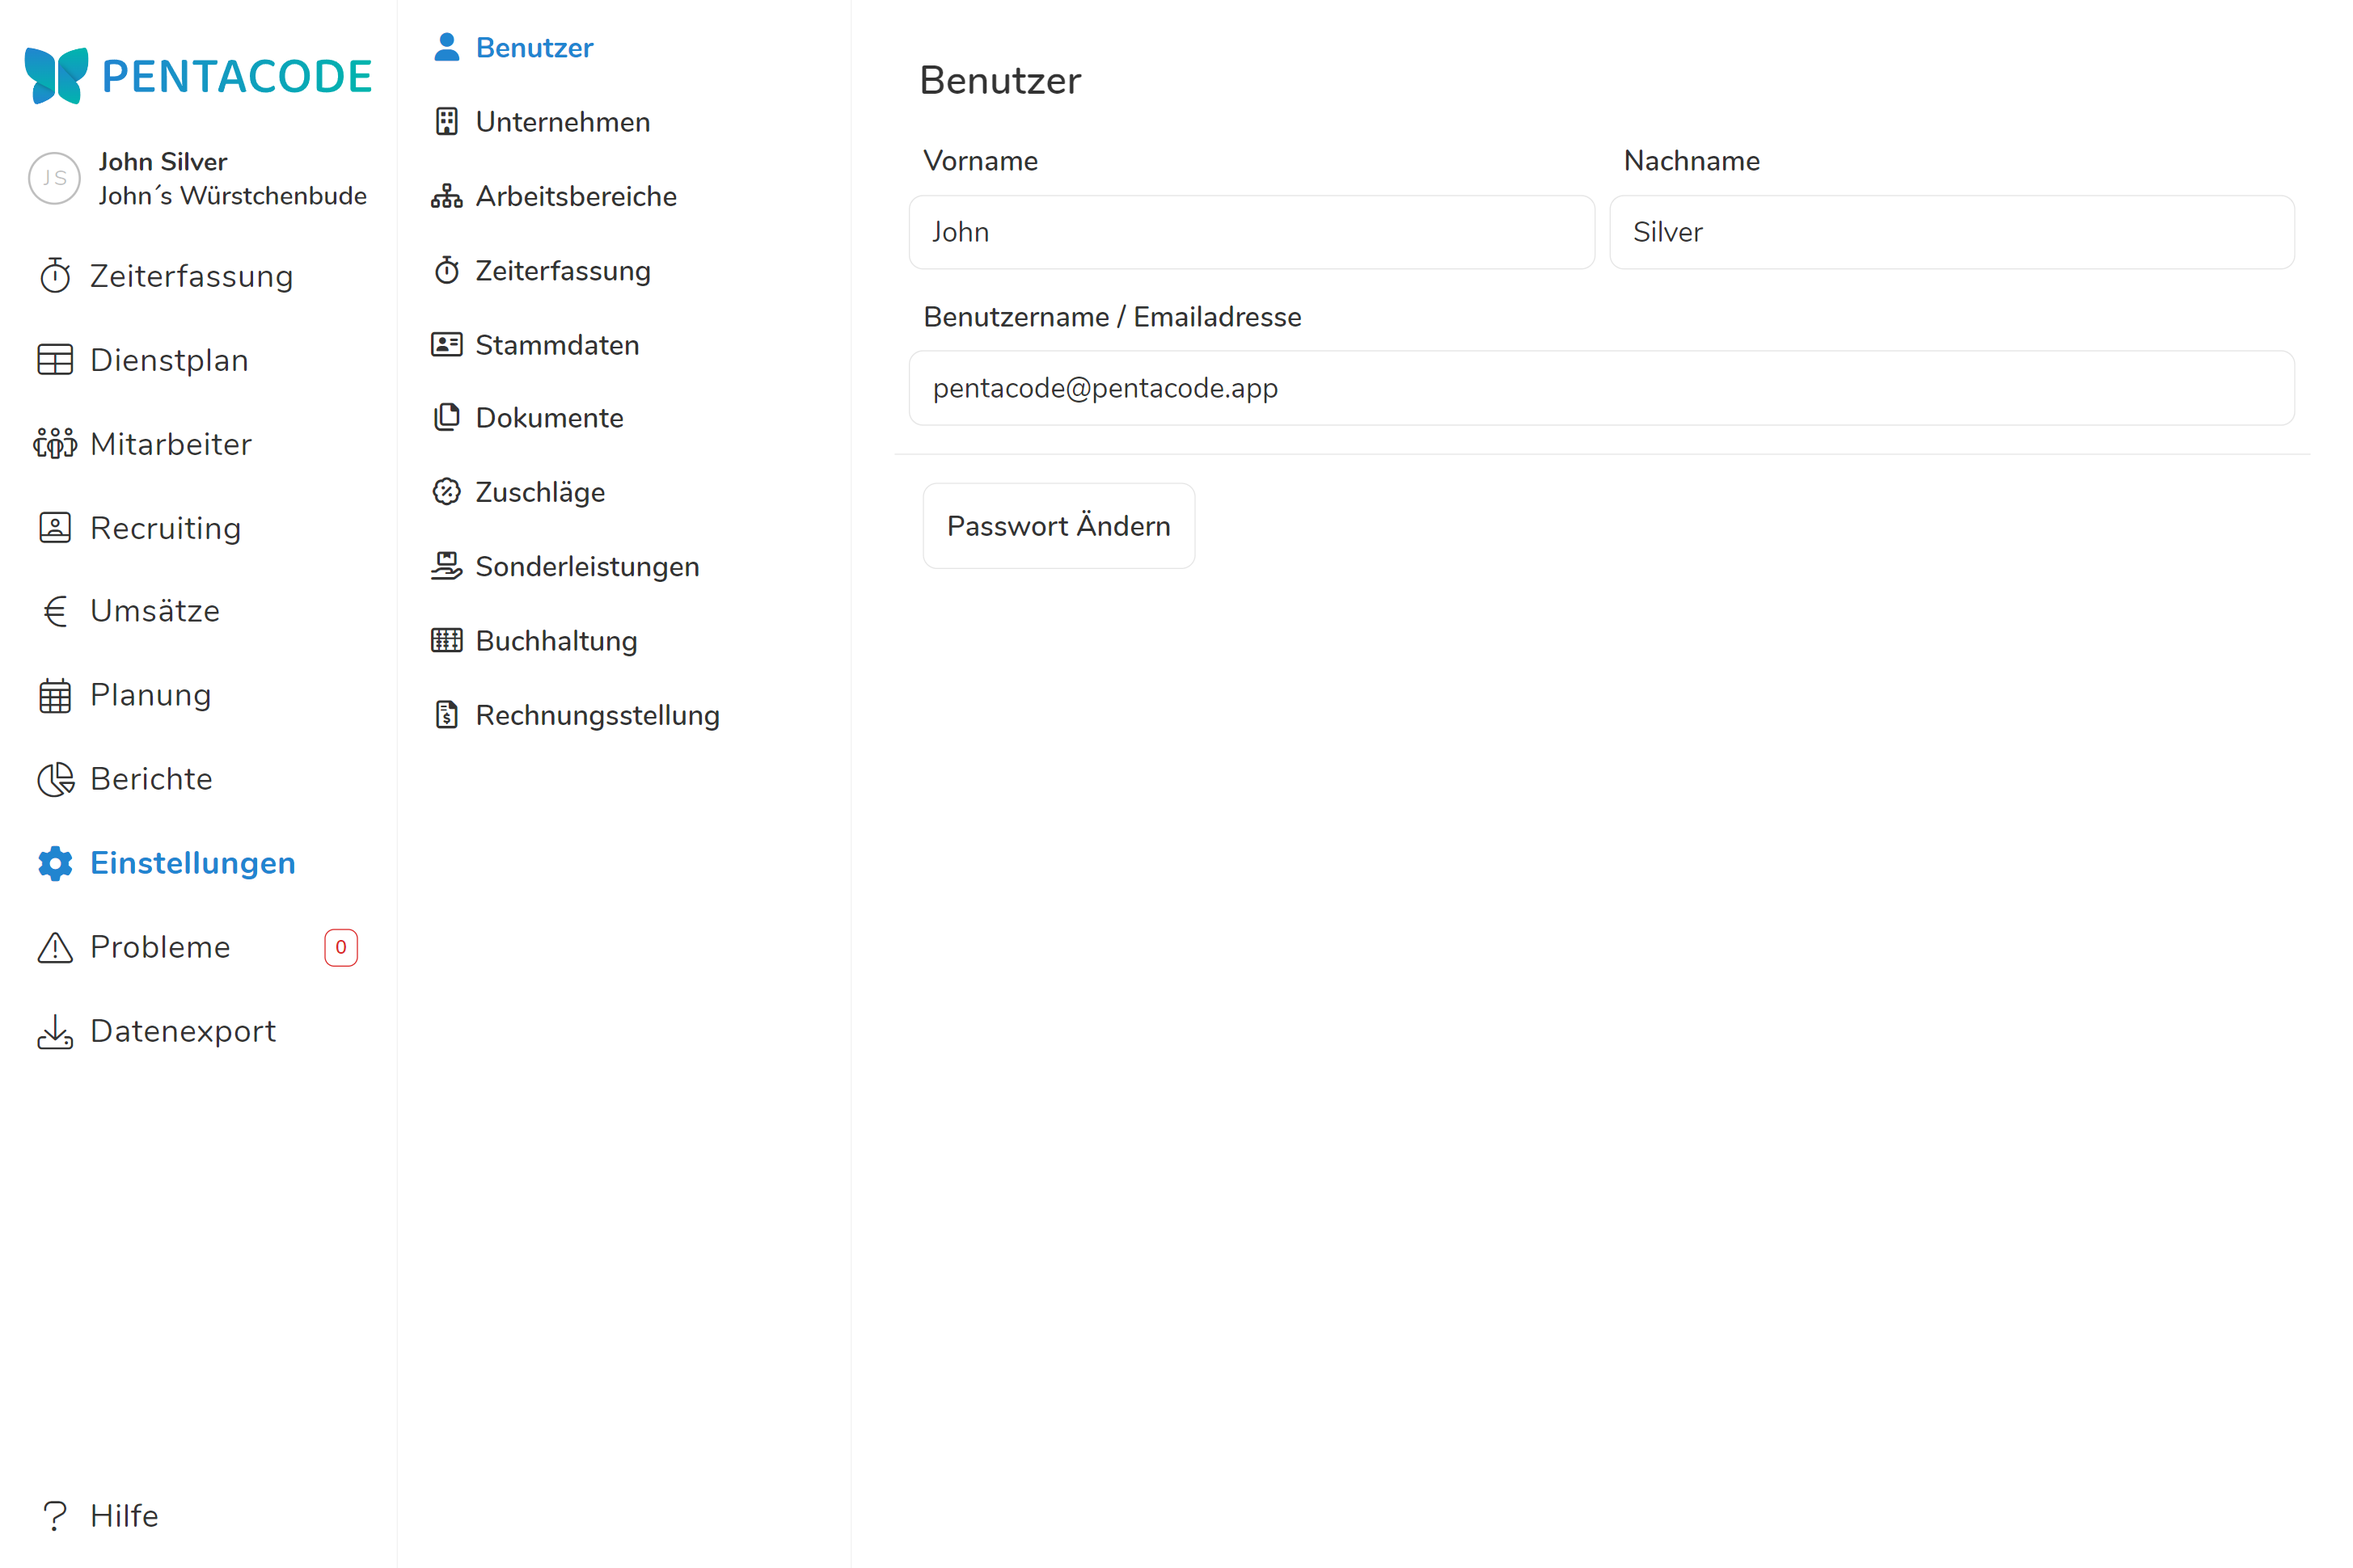
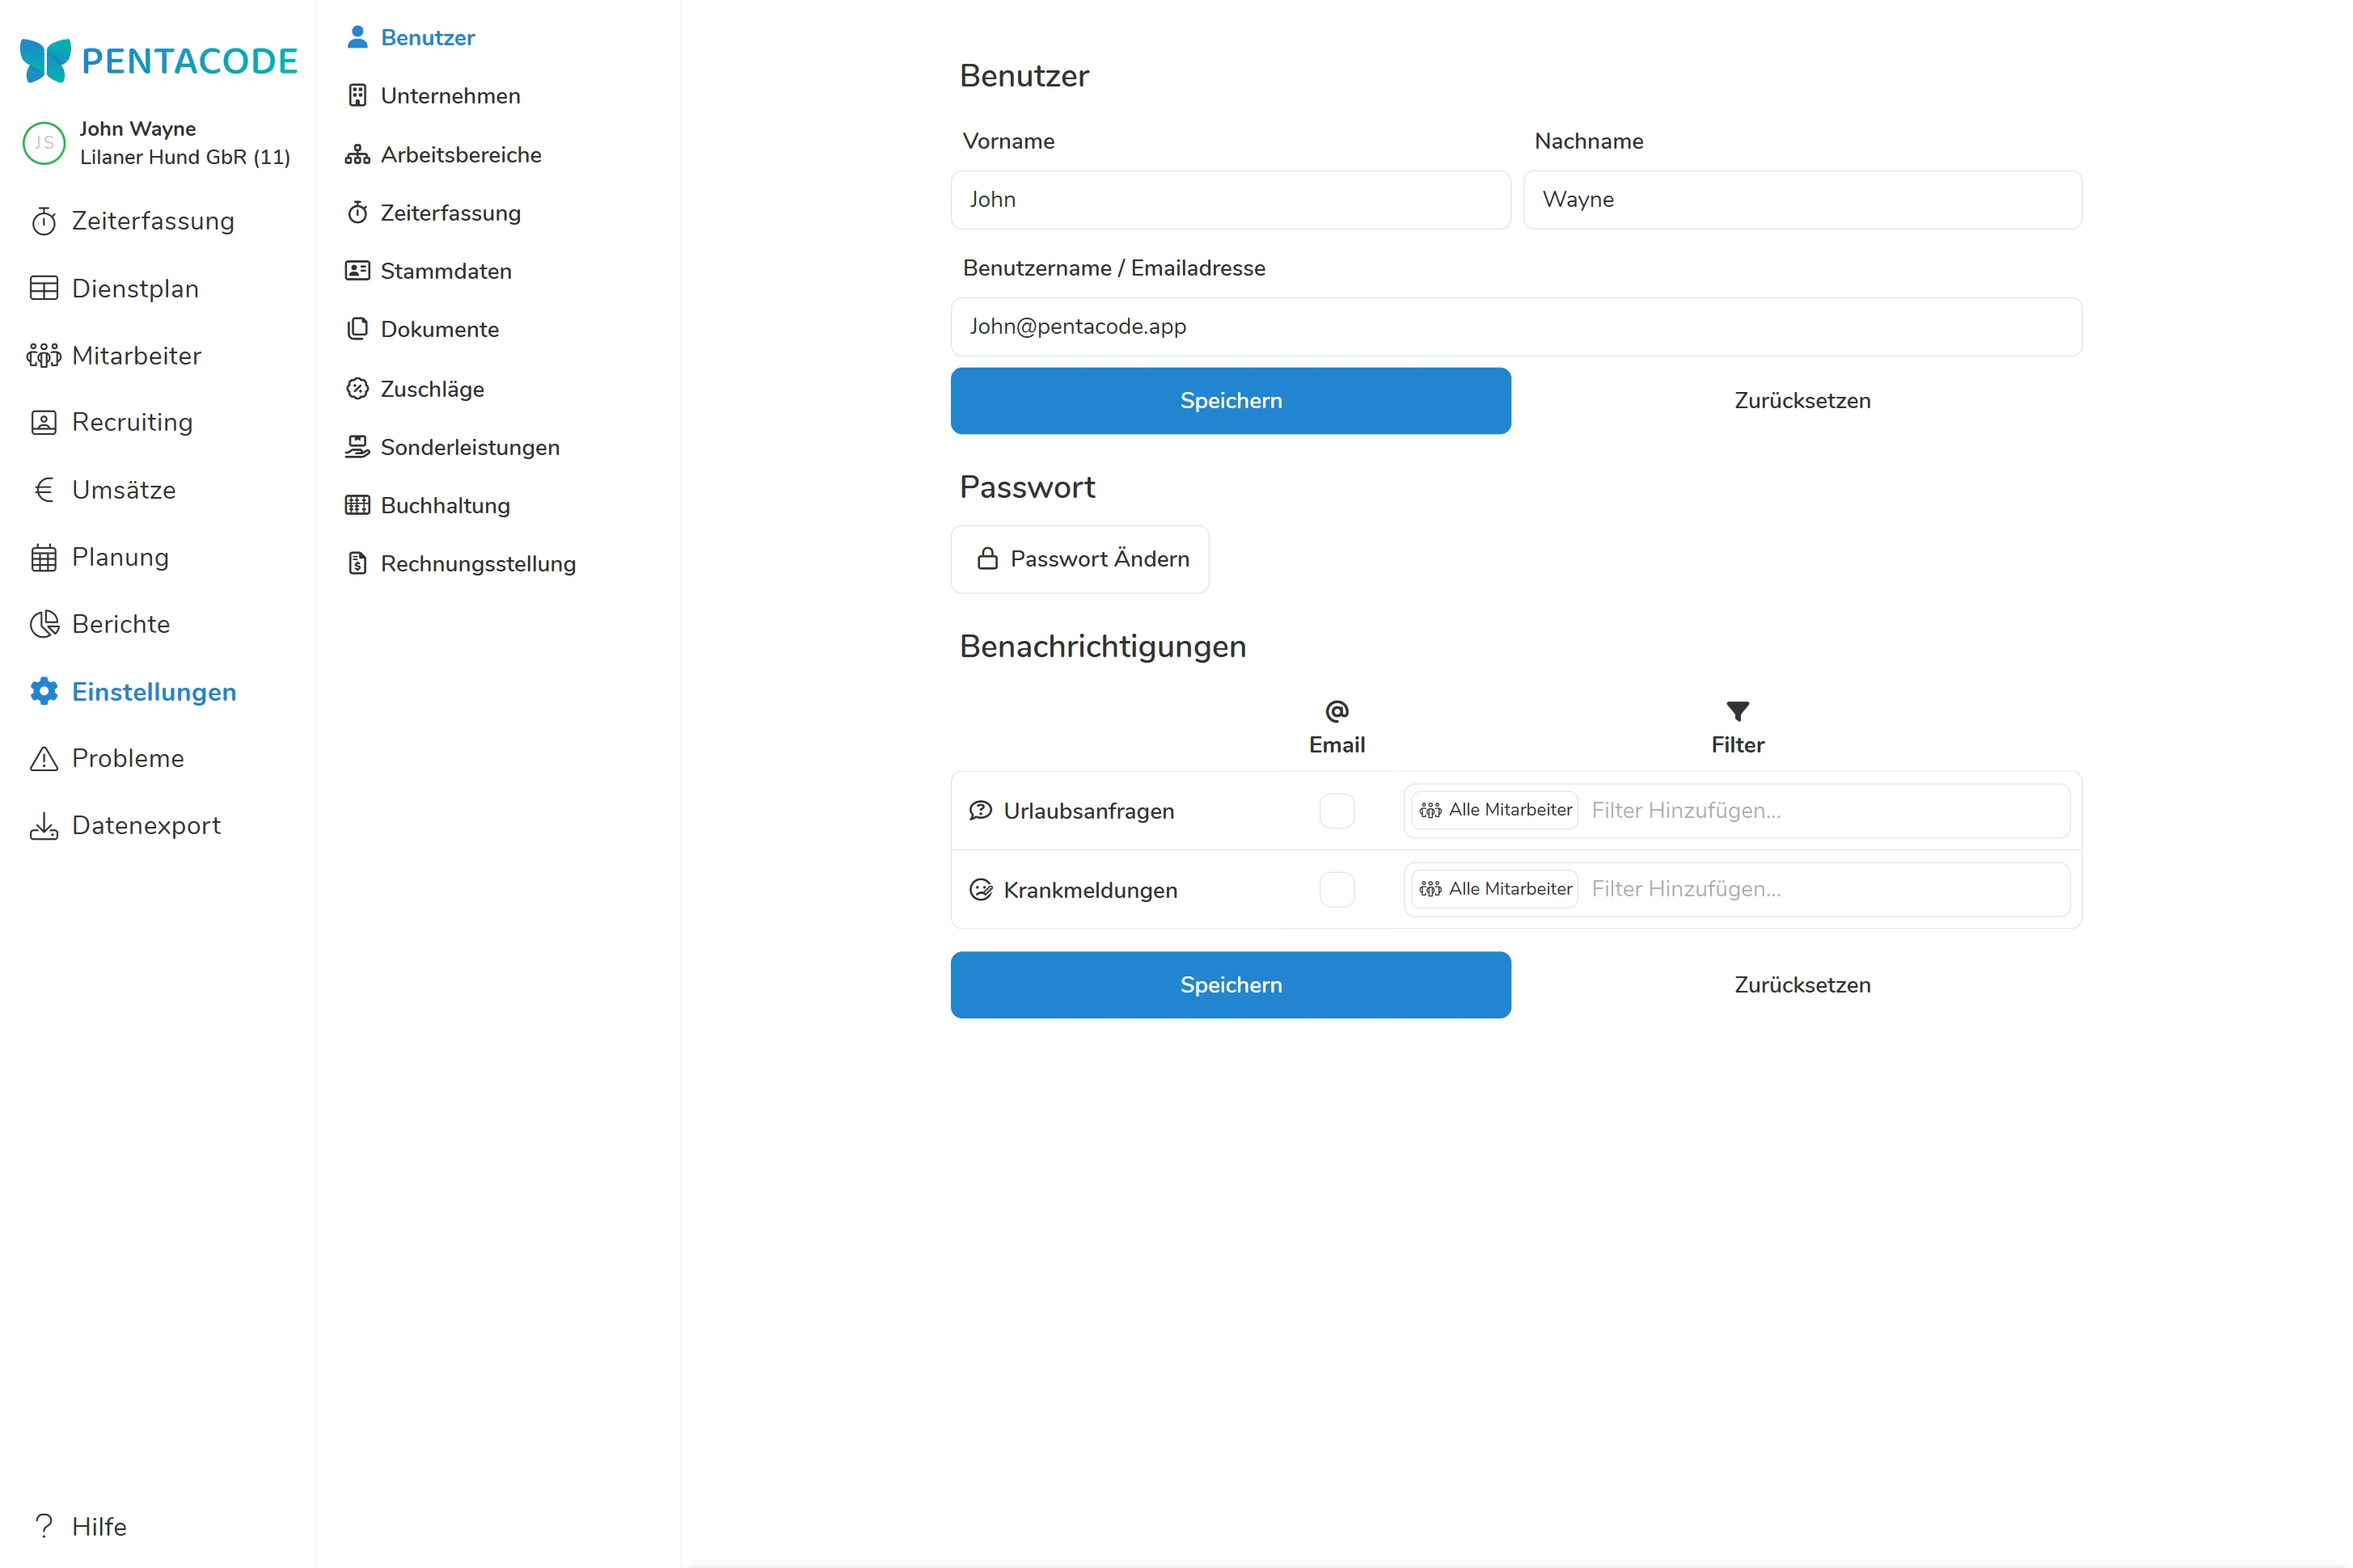
Benachrichtigungseinstellungen

diff --git a/hilfe/handbuch/einstellungen/benutzerkonto/index.md b/hilfe/handbuch/einstellungen/benutzerkonto/index.md
@@ -9,7 +9,7 @@ keywords:
 - passwort
 
 ---
-Im Benutzerkonto wird der Zugang zu Pentacode verwaltet. Sofern ein Administrator Zugang zum "Benutzerkonto" hat, kann er in diesem Menüpunkt seine Email-Adresse wie auch sein Passwort ändern.
+Im Benutzerkonto wird der Zugang zu Pentacode verwaltet. Sofern ein Administrator Zugang zum "Benutzerkonto" hat, kann er in diesem Menüpunkt seine Email-Adresse wie auch sein Passwort ändern und einstellen, welche Benachrichtigungen er erhalten möchte.
 
 {% figure caption="Benutzerdaten & Passwort ändern" %}
 
@@ -18,3 +18,14 @@ Im Benutzerkonto wird der Zugang zu Pentacode verwaltet. Sofern ein Administrato
 {% endfigure %}
 
 Hat ein Administrator sein Passwort vergessen, kann er lediglich auf der Startseite von Pentacode über "**Passwort Vergessen**" ein neues Passwort anfordern.
+
+## Benachrichtigungen anpassen
+
+Sie können einstellen, welche Benachrichtigungen Sie von Pentacode per Mail erhalten. Wählen Sie dazu die Kästchen unter 'Email' an. 
+- **Urlaubsanfragen:** Sie werden benachrichtigt, wenn einer Ihrer Mitarbeiter eine Urlaubsanfrage stellt.
+- **Krankmeldungen:** Sie werden benachrichtigt, wenn einer Ihrer Mitarbeiter sich krank meldet
+
+### Benachrichtigungen nach Mitarbeitern filtern
+
+Wenn Sie nur Benachrichtigungen bei Urlaubsanfragen oder Krankmeldungen einzelner Mitarbeiter oder Abteilungen möchten, können Sie diese unter 'Filter' auswählen. Klicken Sie dazu in das Feld 'Filter Hinzufügen...' und wählen die Mitarbeiter aus. Ohne zusätzliche Filter, sind automatisch **alle Mitarbeiter ausgewählt!**.
+
